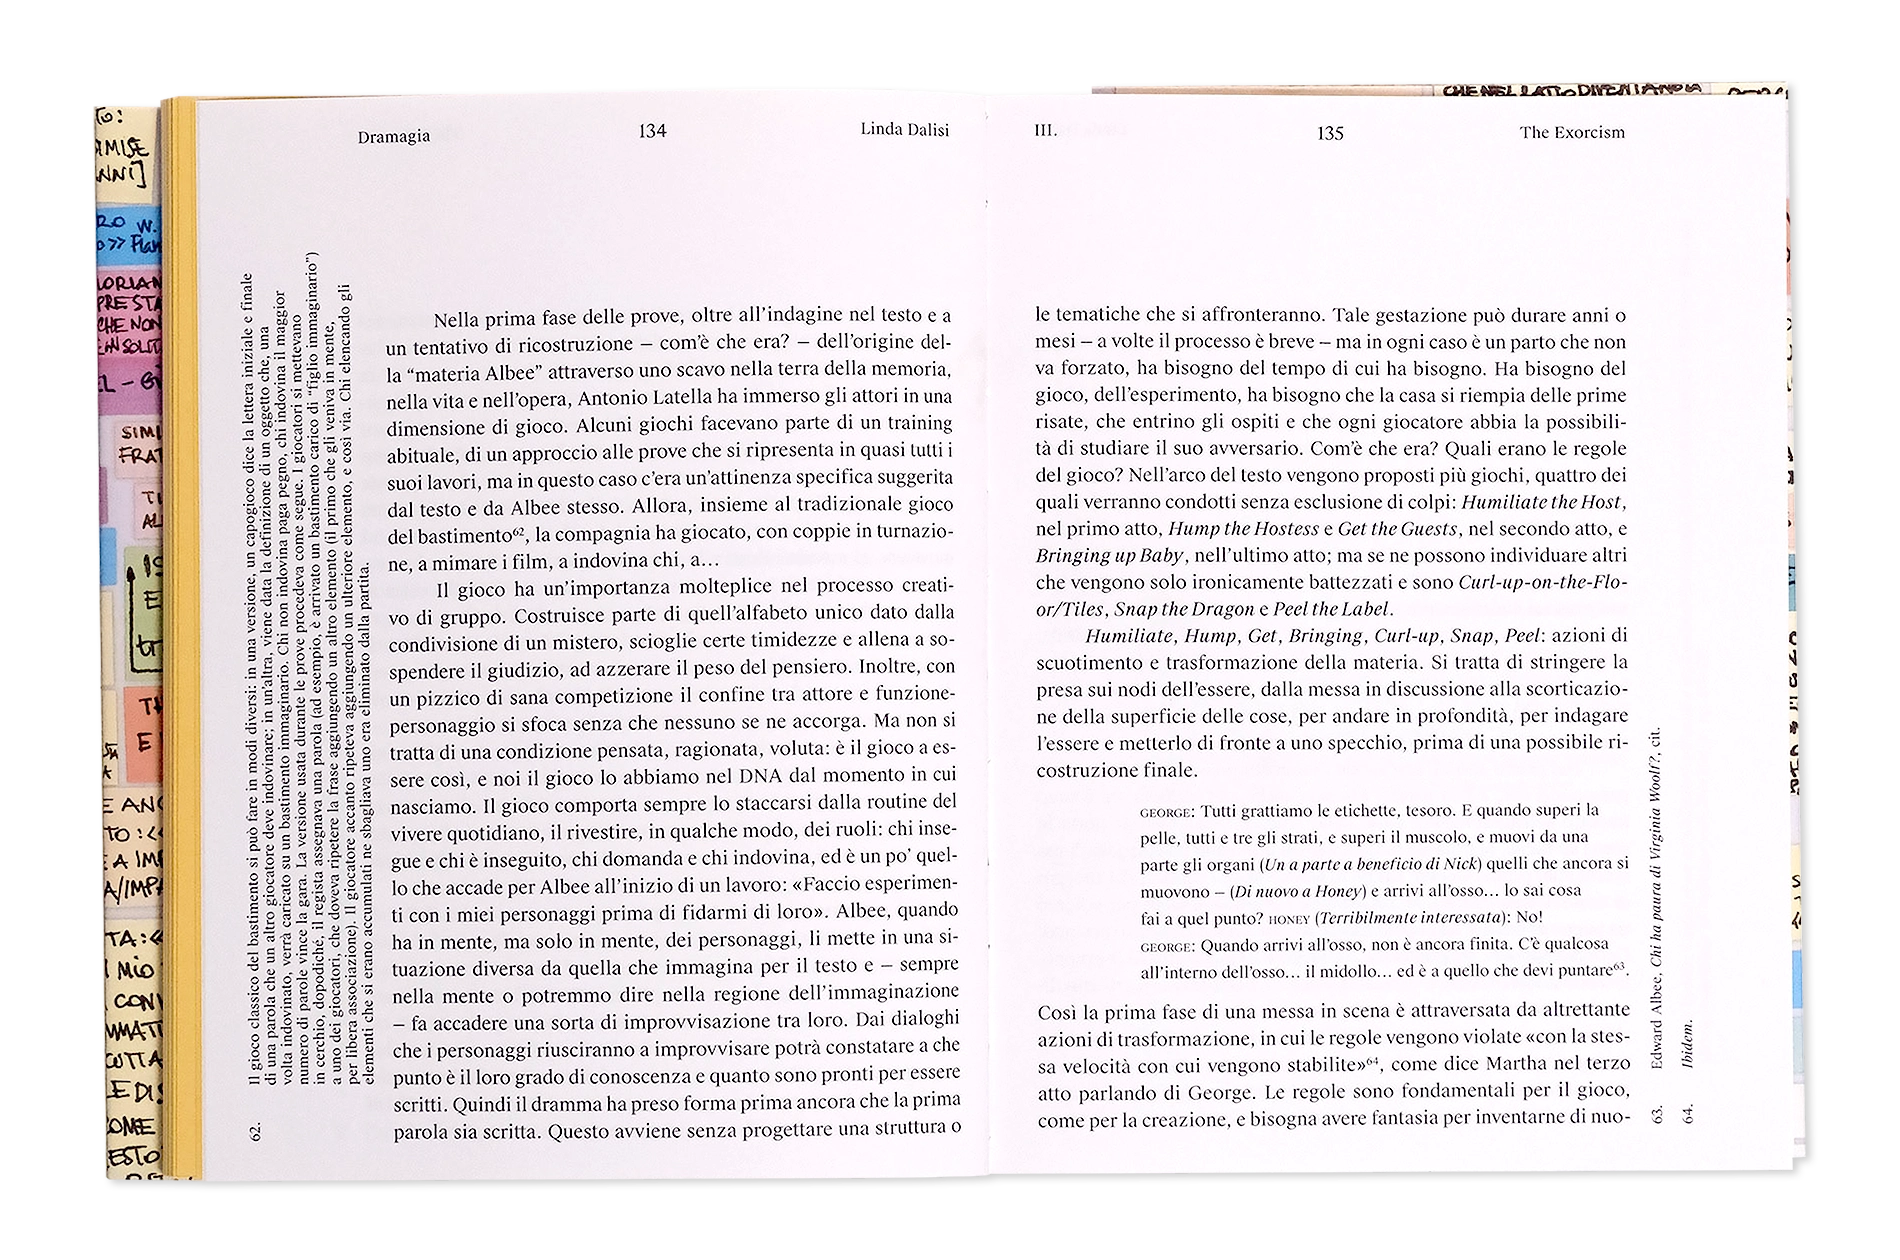
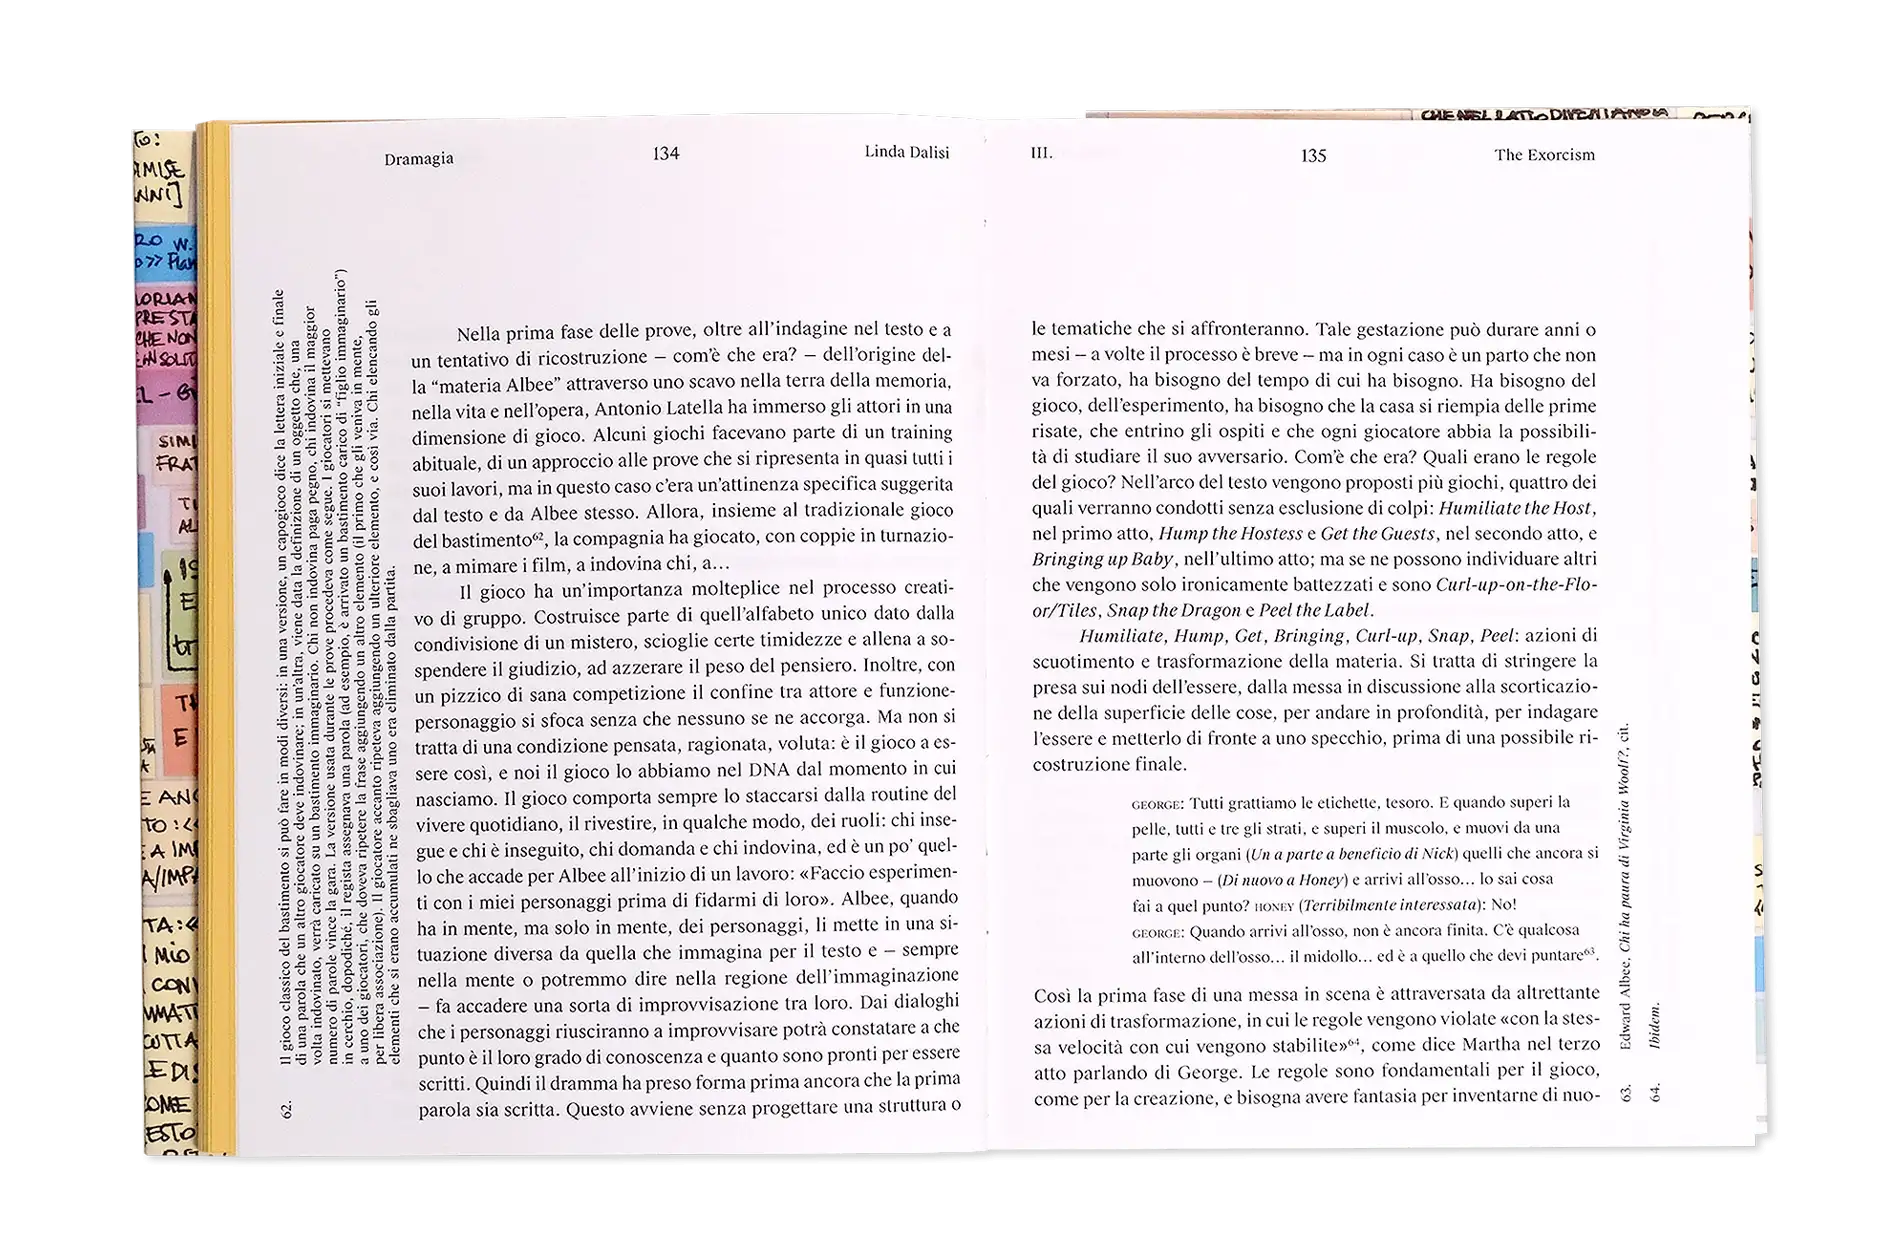
dramagia img size

diff --git a/projects/dramagia.html b/projects/dramagia.html
@@ -82,13 +82,13 @@
                 </div> -->
 
                 <!-- OTHER SLIDES -->
-                <div class="swiper-slide"> <img class="projImg" src="../img/projects/dramagia/spread7.webp" style="max-height:60%;" /> </div>
-                <div class="swiper-slide"> <img class="projImg" src="../img/projects/dramagia/spread.webp" style="max-height:60%;" /> </div>
-                <div class="swiper-slide"> <img class="projImg" src="../img/projects/dramagia/spread2.webp" style="max-height:60%;" /> </div>
-                <div class="swiper-slide"> <img class="projImg" src="../img/projects/dramagia/spread3.webp" style="max-height:60%;" /> </div>
-                <div class="swiper-slide"> <img class="projImg" src="../img/projects/dramagia/spread4.webp" style="max-height:60%;" /> </div>
-                <div class="swiper-slide"> <img class="projImg" src="../img/projects/dramagia/spread5.webp" style="max-height:60%;" /> </div>
-                <div class="swiper-slide"> <img class="projImg" src="../img/projects/dramagia/spread6.webp" style="max-height:60%;" /> </div>
+                <div class="swiper-slide"> <img class="projImg" src="../img/projects/dramagia/spread7.webp"  /> </div>
+                <div class="swiper-slide"> <img class="projImg" src="../img/projects/dramagia/spread.webp" /> </div>
+                <div class="swiper-slide"> <img class="projImg" src="../img/projects/dramagia/spread2.webp" /> </div>
+                <div class="swiper-slide"> <img class="projImg" src="../img/projects/dramagia/spread3.webp" /> </div>
+                <div class="swiper-slide"> <img class="projImg" src="../img/projects/dramagia/spread4.webp" /> </div>
+                <div class="swiper-slide"> <img class="projImg" src="../img/projects/dramagia/spread5.webp"  /> </div>
+                <div class="swiper-slide"> <img class="projImg" src="../img/projects/dramagia/spread6.webp" /> </div>
 
                 <div class="swiper-slide"> <img class="projImg" src="../img/projects/dramagia/dettaglio1.webp" /> </div>
 

diff --git a/main.css b/main.css
@@ -419,14 +419,14 @@
 
 
           .projImg {                        
-            max-height:55%;
+            max-height:58%;
             max-width:85%;
           }
 
 
           .projImgFirst {                 
             margin:auto;
-            max-height:55%;
+            max-height:58%;
             max-width: 85%;
           }
 
@@ -477,6 +477,11 @@
             max-width: 70%;
             align-items: center;
             justify-content: center;
+          }
+
+         .projImgVert {                     /* for very vertical images */                  
+            max-height:63%;
+            max-width:85%;
           }
 
         .projImgMulti {
